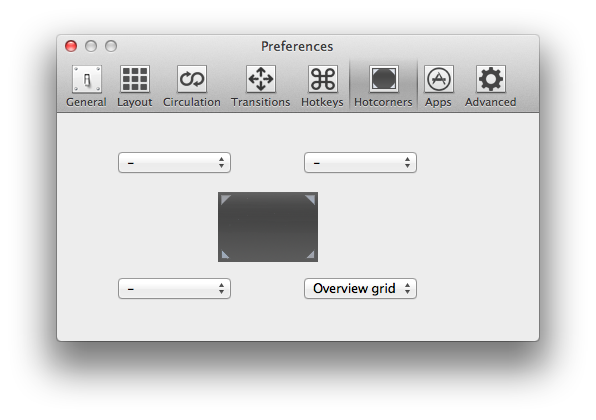
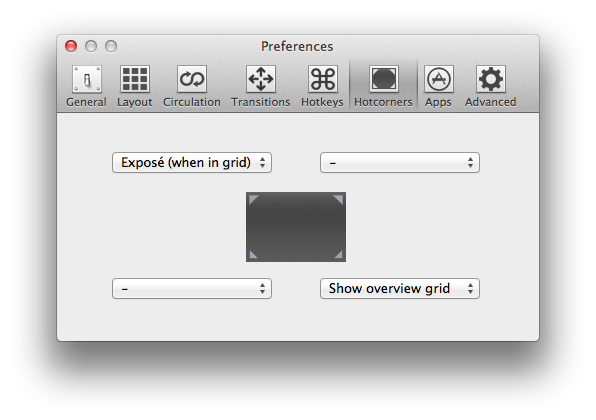
Substantial changes to totalspaces documentation. Also pricing on ts homepage.

diff --git a/changelog.html b/changelog.html
@@ -51,6 +51,48 @@
         <div class="release">
    				<div class="titlebox">
    					<h4>
+   						<a href="http://downloads.binaryage.com/TotalSpaces-1.0.0.zip">1.0.0</a>
+   					</h4>
+   					<h5>
+   						23 October 2012
+   					</h5>
+   				</div>
+   				<div class="infobox">
+   					<ul class="changes">
+   						<li>
+   							<span class="sticker new"><b>NEW</b></span> <span class="info">You can now name your spaces by control-clicking the space buttons in layout preferences. The space names appear in the TotalSpaces menu, on the notification grid, and in Mission Control (but not on the overview grid).</span>
+   						</li>
+   						<li>
+   							<span class="sticker new"><b>NEW</b></span> <span class="info">Added a command line setting for notification graphic fade duration in seconds, for example defaults write com.binaryage.TotalSpaces notificationDuration 1.2</span>
+   						</li>
+   						<li>
+   							<span class="sticker new"><b>NEW</b></span> <span class="info">Added a menu item to trigger the overview grid</span>
+   						</li>
+   						<li>
+   							<span class="sticker new"><b>NEW</b></span> <span class="info">You can now assign an app to all spaces from TotalSpaces app preferences</span>
+   						</li>
+   						<li>
+   							<span class="sticker improved"><b>IMPROVED</b></span> <span class="info">Growl desktop change notifications are now turned off by default, but can be enabled on the command line if needed with defaults write com.binaryage.TotalSpaces sendGrowlNotifications YES</span>
+   						</li>
+   						<li>
+   							<span class="sticker improved"><b>IMPROVED</b></span> <span class="info">The app name is now shown in the TotalSpaces menu for fullscreen spaces</span>
+   						</li>
+   						<li>
+   							<span class="sticker improved"><b>IMPROVED</b></span> <span class="info">The notification graphic is now larger to improve legibility of space names</span>
+   						</li>
+   						<li>
+   							<span class="sticker improved"><b>IMPROVED</b></span> <span class="info">When running with more than one monitor the correct desktop background is now shown for full screen spaces in the overview grid on the screen that is not used by the app</span>
+   						</li>
+   						<li>
+   							<span class="sticker note"><b>NOTE</b></span> <span class="info">TotalSpaces is now limited to a 14 day trial after which you must register. The trial starts when you first used TotalSpaces v1.0.</span>
+   						</li>
+   					</ul>
+   				</div>
+   			</div>
+
+        <div class="release">
+   				<div class="titlebox">
+   					<h4>
    						<a href="http://downloads.binaryage.com/TotalSpaces-0.11.4.zip">0.11.4</a>
    					</h4>
    					<h5>
@@ -80,7 +122,7 @@
    						<li>
    							<span class="sticker improved"><b>IMPROVED</b></span> <span class="info">Full screen app icons are shown a bit smaller on the grid overview so that more of the window can be seen</span>
    						</li>
-   						
+   							<span class="sticker note"><b>NOTE</b></span> <span class="info">The beta trial period for TotalSpaces 0.11.4 expires on 1st November 2012.</span>
    					</ul>
    				</div>
    			</div>

diff --git a/faq.md b/faq.md
@@ -8,7 +8,6 @@ subtitle: Questions and answers
 0. [Where is TotalSpaces?](#finding-totalspaces)
 0. [Help, I can't see the menu bar icon!](#menubar-icon)
 0. [How can I make a particular app stay on a particular desktop in the grid?](#app-assignments)
-0. [How do I assign an app to all spaces?](#apps-on-all-spaces)
 0. [Why is there black blocking on the screen when you change desktop?](#black-blocking)
 0. [How can I uninstall TotalSpaces?](#uninstall)
 0. [Why are there no diagonal transitions?](#diagonal-transitions)
@@ -33,15 +32,7 @@ There is an option to hide the menu bar icon, and perhaps this is turned on for 
 
 ## <a id="app-assignments"></a>How can I make a particular app stay on a particular desktop in the grid?
 
-You can now do this from the new [Apps preferences](/apps)
-
-## <a id="apps-on-all-spaces"></a>How do I assign an app to all spaces?
-
-This is possible using Apple's own app assignment menus. You access them by ctrl-clicking the icons in your Dock. Then choose Options to see the Assign to menu.
-
-<img src="/images/assign-to-menu.png">
-
-Assign to all spaces will be added to TotalSpaces preferences later.
+You can now do this from the [Apps preferences](/apps)
 
 ## <a id="black-blocking"></a>Why is there black blocking on the screen when you change desktop?
 
@@ -58,7 +49,7 @@ TotalSpaces is a normal app that can be dragged to the Trash, except for one add
 The uninstaller will remove this file along with the app itself, as well as restarting Dock so that no trace of TotalSpaces remains running in the system.
 
 Note: TotalSpaces is built on top of Mission Control. Underneath TotalSpaces, the desktops are normal OSX desktops. The uninstaller will not remove any desktops you have created whilst running TotalSpaces, you must adjust your desktops how you like them in Mission Control once you have uninstalled TotalSpaces.
-TotalSpaces does not make any changes whatsoever to the system software or to OSX - once you have uninstalled it the system will be running only the original OSX software.
+**TotalSpaces does not make any changes whatsoever to the system software or to OSX - once you have uninstalled it the system will be running only the original OSX software.**
 
 Final note: If you wish to be super-clean you can also remove the preferences files in ~/Library/Preferences/com.binaryage.TotalSpaces.plist and ~/Library/Preferences/com.binaryage.totalspacescrashwatcher.plist
 
@@ -92,7 +83,7 @@ Note that there is a small built in delay after you press the hotkey that is una
 
 ## <a id="longer-notifications"></a>How can I make the notification graphic stay on the screen longer?
 
-Starting with version 0.11.5 you will use this command at the command line:
+Starting with version 1.0 you will use this command at the command line:
 
 defaults write com.binaryage.TotalSpaces notificationDuration 1.0
 

diff --git a/full-screen-desktops.md b/full-screen-desktops.md
@@ -4,17 +4,19 @@ title: TotalSpaces Full screen desktops
 subtitle: Full screen desktops
 ---
 
-In order to use TotalSpaces to navigate to your full screen apps, you must tick "Navigate right to full screen desktops" in Layout preferences.
+TotalSpaces fully supports full screen apps, and they will normally appear under the [overview grid](/overview). For navigation, they appear on the right of your grid.
+
+<img src="/images/navigation-notification-wide.png">
+
+In order to use TotalSpaces to navigate to your full screen apps, you must have "Navigate right to full screen desktops" ticked in Layout preferences.
 
 <img src="/images/layout-preferences.png" class="prefs-screenshot">
 
-Then your full screen apps will appear to be on the right, on the top row of your grid.
-
-So when you are on your top right desktop, you can then use your rightwards hotkey to get to your first full screen app. Circulation also works from the full screen apps - your rightmost full screen app behaves like it is the rightmost desktop of your top row, and you can circulate to the next row or to the beginning of the same row depending on your circulation settings.
+When you are on your top right grid desktop, you can use your rightwards hotkey to get to your first full screen app. [Circulation](/navigation#circulation) also works from the full screen apps - your rightmost full screen app behaves like it is the rightmost desktop of your top row, and you can circulate to the next row or to the beginning of the same row depending on your circulation settings.
 
 Even if you have "Navigate right to full screen desktops" turned off, you can navigate between your full screen apps by hotkeying left and right.
 
-And hotkeying left from your leftmost full screen app will take you back to your top right desktop.
+And hotkeying left from your leftmost full screen app will always take you back to your top right desktop.
 
 ## Advanced: full screen apps in the grid
 
@@ -25,3 +27,5 @@ It is possible to have some or all of your full screen apps in the grid. This is
 So, for instance, you may have a grid of 3x3, and choose to have one full screen app in the grid. Then you would have 8 desktops, and the full screen app would take the last (bottom right) space in the grid.
 
 Further full screen apps would appear to the right as usual.
+
+&raquo; Next [**Overview grid app**](/overview-grid-app)

diff --git a/overview.md b/overview.md
@@ -7,13 +7,17 @@ TotalSpaces allows you to bring up an overview of all the desktops in your main 
 
 <img src="/images/grid-view.png">
 
+If you have fullscreen apps running, you'll see them at the bottom of the grid.
+
+<img src="/images/grid-view-with-fullscreens.png">
+
 When the overview is visible you can navigate to a new desktop by either using the cursor keys, and the enter key to select, or choosing by clicking on a desktop.
 
 You can also organise your windows by dragging them from desktop to desktop, and putting them just where you want them.
 
 <img src="/images/drag-windows.png">
 
-If you can't see the window you need, just press the space bar, and all the windows will move to visible positions.
+If you can't see the window you need, just press the space bar, and all the windows will move to visible positions.  You can [set a hotcorner](/hotcorners) for this too.
 
 <img src="/images/grid-exposed.png">
 
@@ -21,11 +25,20 @@ If you click on a window it will come to the front, and the space will activate 
 
 You can drag windows between desktops when they are exposed like this, and you can cancel this mode by pressing the space bar again.
 
-When dragging a window from one desktop to another (and they are not in exposed mode), you choose to have the system place the window in the same place on the new desktop (as it was in the previous desktop), or to just leave it where you dropped it. This setting is in the General preferences pane.
+## Settings
+
+You can choose to not have your fullscreen apps shown under the grid by unticking "Show fullscreen apps under the overview grid"
+
+When dragging a window from one desktop to another (and they are not in exposed mode), you choose to have the system place the window in the same place on the new desktop (as it was in the previous desktop), or to just leave it where you dropped it. 
+
+These settings are in the General preferences pane.
 
 <img src="/images/general-preferences.png">
+
+## Extra info about dragging windows
 
 When you move windows within one desktop, they will always stay where you put them no matter which way you have set the setting.
 
 Note that there are some places where windows cannot be placed - for instance where the title bar of the window is not on the screen.
 
+&raquo; Next [**Overview grid backgrounds**](/overview-backgrounds)

diff --git a/navigation.md b/navigation.md
@@ -10,6 +10,10 @@ As you navigate between your desktops, you will notice that on each movement the
 
 This shows you which desktop you came from, and which you are now on. (You can turn this off in General preferences if you don't like it.)
 
+If you have named your spaces, it might look something like this
+
+<img src="/images/navigation-notification-with-names.png">
+
 If you attempt to navigate off the edge of the grid, and you have circulation turned off (so you cannot go that direction), then the notification will show to remind you of your current position.
 
 If you have those options enabled, you can see the full screen apps and the dashboard alongside your grid, and you can navigate to these by using the direction hotkeys also.
@@ -20,7 +24,7 @@ But note that the notification doesn't show on the dashboard.
 
 You can also navigate using the "Overview Grid", a birds eye view of each of your desktops.
 
-<img src="/images/grid-view-8.png">
+<img src="/images/grid-view-6.png">
 
 The currently active desktop is highlighted with a light border. You can either click on the desktop you wish to go to, or you can navigate using the cursor keys to move the  border and hit enter to change to the desktop you want.
 
@@ -30,7 +34,7 @@ You can also use a hotcorner to access the overview grid, this can be set up in 
 
 <img src="/images/hotcorners-preferences.png" class="prefs-screenshot">
 
-## Circulation
+## <a id="circulation"></a>Circulation
 
 Circulation allows you to join one edge of your grid to the opposite edge.
 
@@ -41,3 +45,5 @@ If you enable circulation, going left from the left side of your grid will move 
 There are two modes for horizontal circulation - when set to join to "Next row", going right from the end of a row of desktops takes you to the left most desktop on the next row below. If it's the bottom row you are going from, you end up on the left most space on the top row.
 
 When set to "Same row", the change of row behaviour does not occur, and the right end of the rows join to the left ends of the same rows.
+
+&raquo; Next [**Multi-monitors**](/multi-monitors)

diff --git a/documentation.md b/documentation.md
@@ -8,20 +8,22 @@ subtitle: Documentation
 
 <img src="/images/grid-view.png">
 
-An easy to use 2D grid of desktops, inspired by the implementation in OS X Snow Leopard. Navigate using the cursor keys, choose your transitions, and quickly access a birds eye view of your grid of spaces where you can manage your application windows.
+An easy to use 2D grid of desktops. Navigate using the cursor keys, choose your [transitions](/transitions), and quickly access a [birds eye view](/overview) of your grid of spaces where you can manage your application windows. You can even give your spaces names.
 
 Having a grid of spaces allows you to keep a mental picture of where each of your applications is, and to navigate easily and quickly between them.
 
 TotalSpaces lives in an icon in your menu bar, like this:
 
-<img src="/images/menubar-icon.png">
+<img src="/images/totalspaces-main-menu.png">
 
-From there, you can control TotalSpaces, and access the preferences where you can set up your grid, and configure your desktops just how you like them.
+From there, you can control TotalSpaces, and access the preferences where you can [set up your grid](/layout), name your spaces, and configure your desktops just how you like them.
 
-TotalSpaces allows you to easily navigate between your spaces, by swiping, with hotkeys, or by just moving your mouse the the edge of the screen in the direction you wish to move.
+TotalSpaces allows you to easily navigate between your spaces, by [**swiping**](/swipe), with [**hotkeys**](/hotkeys), or by just moving your mouse the the edge of the screen in the direction you wish to move.
 
+You'll see a helpful notification as you move between your spaces.
 
+<img src="/images/totalspaces-changing-space-notification.png">
 
-**« For more info please select a topic from the left-side menu**
+**&laquo; For more info please select a topic from the left-side menu**
 
-
+&raquo; Next [**Grid layout**](/layout)

diff --git a/layout.md b/layout.md
@@ -6,7 +6,7 @@ subtitle: Grid Layout
 
 Instead of having a single row of desktops, TotalSpaces lets you define a grid that you can navigate using up, down, left and right shortcuts (by default mapped to crtl-shift-cursor keys).
 
-By using this grid, you can very quickly move between the desktops you commonly use, and using a [hotkey](/hotkeys "Hotkeys") or [hot corner](/hotcorners "Hot corners") you can get a birds-eye overview of all of your desktops.
+By using this grid, you can very quickly move between the desktops you commonly use, and using a [hotkey](/hotkeys "Hotkeys") or [hot corner](/hotcorners "Hot corners") you can get a [birds-eye overview](/overview) of all of your desktops.
 
 You select your desired layout using the selector in the preferences panel.
 
@@ -33,3 +33,11 @@ If you select a layout with fewer desktops than you actually have, TotalSpaces w
 When you click on Remove desktops, the highest numbered desktops will be removed.
 
 <img src="/images/layout-preferences3.png" class="prefs-screenshot">
+
+## Naming desktops
+
+Hold down the ctrl key and click on the blue buttons to name your spaces. The names show up in the notification when you change space, in the TotalSpaces menu, and in Mission Control.
+
+<img src="/images/layout-prefs-naming.png" class="prefs-screenshot">
+
+&raquo; Next [**Overview grid**](/overview)

diff --git a/hotcorners.md b/hotcorners.md
@@ -4,7 +4,7 @@ title: TotalSpaces Hot corners
 subtitle: Hot corners
 ---
 
-TotalSpaces allows you to set a hot corner for opening the Overview Grid, the birds-eye view of your desktops.
+TotalSpaces allows you to set a hot corner for opening the Overview Grid, the birds-eye view of your desktops. You can also set a hotcorner to trigger a windows exposé mode once in the overview grid.
 
 A hotcorner allows you to trigger the overview just by bringing your mouse down to the corner you have selected.
 
@@ -12,4 +12,6 @@ A hotcorner allows you to trigger the overview just by bringing your mouse down 
 
 Hotcorners currently look at your monitor setup, and choose the leftmost (for the left corners) or rightmost (for right corners) monitor screen to place the corners in.
 
-You can also dismiss the overview grid by triggering the hot corner once again.
+You can also dismiss the overview grid or exposé by triggering the hot corner once again.
+
+&raquo; Next [**App assignments**](/apps)

diff --git a/apps.md b/apps.md
@@ -8,8 +8,10 @@ You can assign apps to always open on a particular desktop by using the Apps pre
 
 <img src="/images/apps-preferences.png">
 
-Press the + button to open a dialog and choose the application you want to assign. Then choose the desktop you want to assign it to from the dropdown list.
+Press the + button to open a dialog and choose the application you want to assign. Then choose the desktop you want to assign it to from the dropdown list. You can also choose **All spaces** if you would like an app to appear on all desktops.
 
 These assignments allow you to choose where apps start, but note that you may still move windows from desktop to desktop - for instance by dragging them in the [Overview Grid](/overview "Overview grid").
 
 You can delete an app assignment by highlighting it and pressing the - (minus) button.
+
+&raquo; Next [**Full screen desktops**](/full-screen-desktops)

diff --git a/overview-backgrounds.md b/overview-backgrounds.md
@@ -3,7 +3,7 @@ layout: ts-doc
 title: TotalSpaces Overview Grid Backgrounds
 subtitle: Overview Grid Backgrounds
 ---
-TotalSpaces allows you to configure the kind of backgrounds that are shown in the [overview grid](/overview). Find the setting in general preferences.
+TotalSpaces allows you to configure the kind of desktop backgrounds that are shown in the [overview grid](/overview). Find the setting in general preferences.
 
 <img src="/images/background-preferences.png">
 
@@ -14,3 +14,5 @@ In those situations it is recommended to choose either the Blurred or None setti
 Also, you may find it easier to see your windows with one of these two settings.
 
 <img src="/images/background-settings-example.png">
+
+&raquo; Next [**Navigation**](/navigation)

diff --git a/hotkeys.md b/hotkeys.md
@@ -13,3 +13,5 @@ You can also choose to use the center or 3rd button to trigger the grid if you h
 You can click inside the hotkey recorder to change the hotkey setting.
 
 Some hotkey combinations are already reserved - TotalSpaces will warn you about this if it's the case, and give you the option to try to force assignment of the hotkey, as some system hotkeys are still marked as reserved by the system even when they are not being used.
+
+&raquo; Next [**Swiping**](/swipe)

diff --git a/mouse-edges.md b/mouse-edges.md
@@ -13,3 +13,4 @@ If you choose to use this feature without any modifier key selected, the system 
 If you select one of the modifier keys (shift, ctrl, alt or cmd), then you must hold this key down and move the mouse to the edge of the screen in the direction you want to go for the space change the happen.
 In this case the system will activate faster as there is less chance that space changes will be activated by accident.
 
+&raquo; Next [**Transitions**](/transitions)
